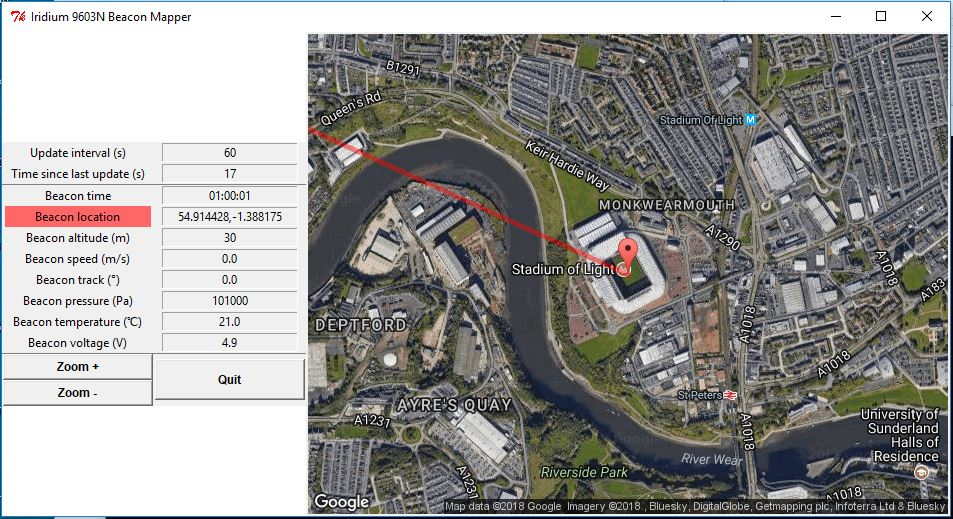
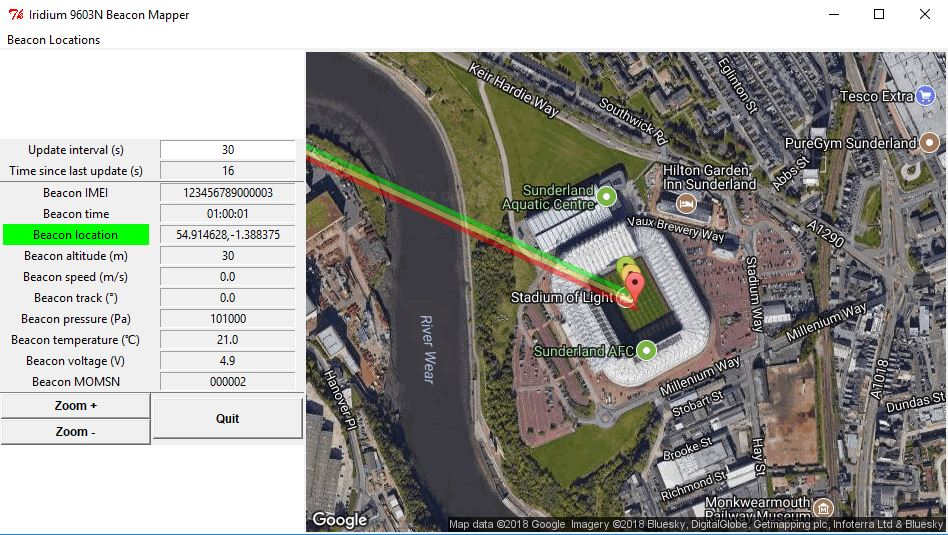
Now centers map on beacon menu location

diff --git a/Iridium_9603N_Beacon_Mapper.py b/Iridium_9603N_Beacon_Mapper.py
@@ -17,15 +17,19 @@
 ## The displayed map is automatically centered on a new beacon position.
 ## The center position can be changed by left-clicking in the image.
 ## A right-click will copy the click location (lat,lon) to the clipboard.
-## The zoom level is set automatically when a new beacon is displayed to show both beacon and base.
 ## The zoom can be changed using the buttons.
 
 ## Each beacon's path is displayed as a coloured line on the map.
 ## The oldest waypoints may be deleted as the map URL is limited to 8192 characters.
 
-## The GUI uses 640x480 pixel map images. Higher resolution images are available if you have a premium plan with Google.
+## A pull-down menu lists the locations of all the beacons being tracked.
+## Clicking on a menu entry will center the map on that location and will copy that location
+## to the clipboard.
 
-# sbd file contains:
+## The GUI uses 640x480 pixel map images. Higher resolution images are available
+## if you have a premium plan with Google.
+
+# sbd file contains the following in csv format:
 # Column 0 = GPS Tx Time (YYYYMMDDHHMMSS) (Start of 9603 Tx session)
 # Column 1 = GPS Latitude (degrees) (float)
 # Column 2 = GPS Longitude (degrees) (float)
@@ -38,6 +42,7 @@
 # Column 9 = Temperature (C) (float)
 # Column 10 = Battery (V) (float)
 # Column 11 = Iteration Count (int)
+# (Optional) Column 12 = The Beacon's RockBLOCK serial number (Iridium9603NBeacon_V4.ino)
 
 # Converters
 # 0:mdates.strpdate2num('%Y%m%d%H%M%S')
@@ -79,7 +84,8 @@ class BeaconMapper(object):
       self.beacon_imeis = {} # Dictionary of the serial numbers of the beacons currently being tracked
       self.beacon_paths = [] # List of beacon paths for Static Map
       self.beacon_locations = [] # List of current location for each beacon
-      self.beacon_colours = ['red','yellow','green','blue','purple','gray','brown','orange'] # Colours for beacon markers and paths
+      # Colours for beacon markers and paths - supported by both Tkinter and Google Static Maps API
+      self.beacon_colours = ['red','yellow','green','blue','purple','gray','brown','orange']
       self.sbd = [] # List of existing sbd filenames
       
       # Limit path lengths to this many characters depending on how many beacons are being tracked
@@ -600,6 +606,13 @@ class BeaconMapper(object):
       loc = self.beacon_locations[self.beacon_imeis[imei]] # Get location
       self.window.clipboard_append(loc) # Copy location to clipboard
       self.window.update() # Update window
+      try:
+         lat,lon = loc.split(',')
+         self.map_lat = float(lat)
+         self.map_lon = float(lon)
+         self.update_map()
+      except:
+         pass
 
    def QUIT(self):
       ''' Quit the program '''

diff --git a/README.md b/README.md
@@ -9,8 +9,8 @@ A somewhat random collection of Python software tools to help Iridium SBD tracke
 This is a collection of Python software tools which I wrote to download, process, upload and visualise Short Burst Data messages from the [UBSEDS22I Iridium Tracker](https://github.com/PaulZC/Iridium_9603_Beacon/blob/master/Archive/V2/Iridium_9603_Beacon.pdf).
 
 If you purchase an Iridium 9603N module for your tracker project, your provider will offer you the option of receiving the data messages via email or a web service (HTTP).
-Personally I prefer email. So, here are a somewhat random collection of software tools which will automatically download the SBD data email attachments from GMail, parse them,
-display the tracker location and path using the Google Static Maps API, upload data to the [HabHub Habitat Tracker](https://tracker.habhub.org),
+Personally I find email easier to work with. So, here are a somewhat random collection of software tools which will automatically download the SBD data email attachments from GMail, parse them,
+display the tracker locations and paths using the Google Static Maps API, upload data to the [HabHub Habitat Tracker](https://tracker.habhub.org),
 forward the data to another email address (with a Google Static Maps API link) and visualise the path of your tracker via Google Earth KML files.
 
 ## Downloading the SBD emails and attachments
@@ -79,7 +79,7 @@ copied across allowing modify access.
 If you ever want to download all the SBD messages again, perhaps on a new computer, then
 [Iridium_SBD_GMail_API_GetAllSBD.py](https://github.com/PaulZC/Iridium_SBD_Tools/blob/master/Iridium_SBD_GMail_API_GetAllSBD.py) will do just that.
 
-## Mapping the location and path with the Google Static Maps API
+## Mapping tracker locations and paths with the Google Static Maps API
 
 [Iridium_9603N_Beacon_Mapper.py](https://github.com/PaulZC/Iridium_SBD_Tools/blob/master/Iridium_9603N_Beacon_Mapper.py) uses the Google Static Maps API to display beacon locations and paths.
 It will check once per minute for the appearance of a new .sbd file, parse it and display the data in a Python Tkinter GUI.
@@ -104,7 +104,7 @@ and
 The displayed map is automatically centered on the position of a new beacon. The center position can be changed by left-clicking in the image.
 A right-click will copy that location (lat,lon) to the clipboard. The zoom level defaults to '15' but can be changed using the zoom buttons.
 
-A pull-down menu lists the latest locations of all beacons being tracked. Click on the entry for a beacon to copy its location to the clipboard.
+A pull-down menu lists the latest locations of all beacons being tracked. Click on the entry for a beacon to center the map on its location and copy its location to the clipboard.
 
 The beacon's path is displayed as a coloured line on the map. The oldest waypoints may not be shown as the map URL is limited to 8192 characters.
 
